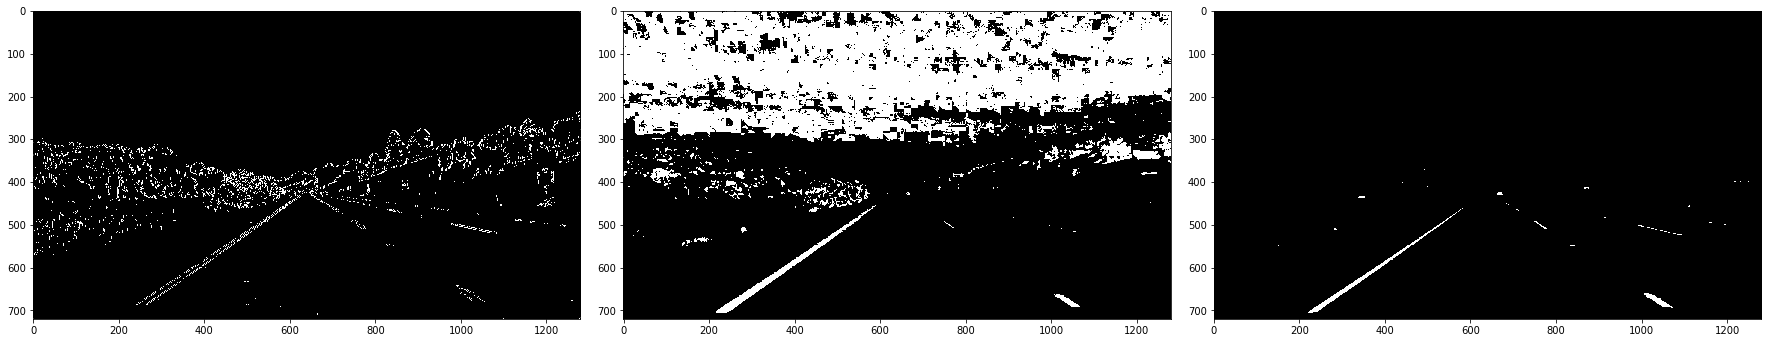
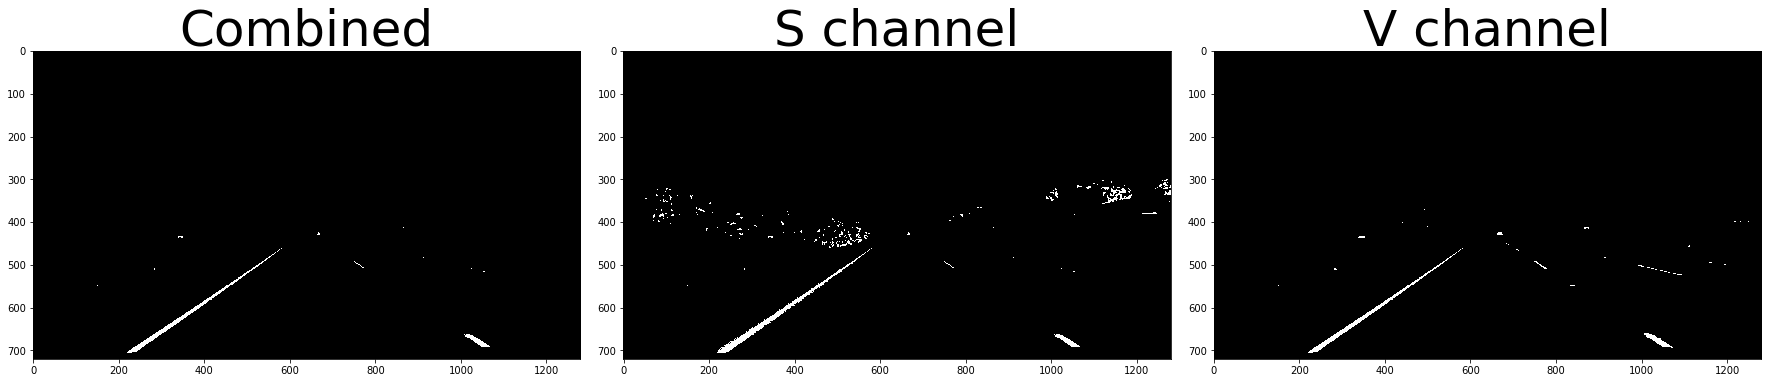
files

diff --git a/writeup_template.md b/writeup_template.md
@@ -20,7 +20,7 @@ The goals / steps of this project are the following:
 [//]: # (Image References)
 
 [image1]: ./undistort_output.png "Undistorted"
-[image2]: ./undistort_output.png "Road Transformed"
+[image2]: ./undistort_image.png "Road Transformed"
 [image3]: ./binary_combo_example.png "Binary Example"
 [image4]: ./warped_straight_lines.png "Warp Example"
 [image5]: ./examples/color_fit_lines.jpg "Fit Visual"
@@ -37,7 +37,7 @@ The goals / steps of this project are the following:
 
 #### 1. Briefly state how you computed the camera matrix and distortion coefficients. Provide an example of a distortion corrected calibration image.
 
-The code for this step is contained in the first code cell of the IPython notebook located in "./examples/example.ipynb" (or in lines # through # of the file called `some_file.py`).  
+The code for this step is contained in the second code cell of the IPython notebook located in "main.ipynb" under method called Calibrate_camera.  
 
 I start by preparing "object points", which will be the (x, y, z) coordinates of the chessboard corners in the world. Here I am assuming the chessboard is fixed on the (x, y) plane at z=0, such that the object points are the same for each calibration image.  Thus, `objp` is just a replicated array of coordinates, and `objpoints` will be appended with a copy of it every time I successfully detect all chessboard corners in a test image.  `imgpoints` will be appended with the (x, y) pixel position of each of the corners in the image plane with each successful chessboard detection.  
 
@@ -54,7 +54,8 @@ To demonstrate this step, I will describe how I apply the distortion correction 
 
 #### 2. Describe how (and identify where in your code) you used color transforms, gradients or other methods to create a thresholded binary image.  Provide an example of a binary image result.
 
-I used a combination of color and gradient thresholds to generate a binary image (thresholding steps at lines 13 through 20 in `main.ipynb`).  Here's an example of my output for this step.  (note: this is not actually from one of the test images)
+I used the S channel in HLS color space and V channel in HSV color space and created two binary image with selected thresholds. I combined tem both by an & operation so it take the best in the two images. 
+I used a combination of color thresholds to generate a binary image (thresholding steps 4th cell at lines 13 through 20 in `main.ipynb`) and helper Function at 2nd cell. Here's an example of my output for this step.  (note: this is not actually from one of the test images)
 
 ![alt text][image3]
 
@@ -62,27 +63,17 @@ I used a combination of color and gradient thresholds to generate a binary image
 
 The code for my perspective transform includes a function called `warper()`, which appears in lines 1 through 8 in the file `example.py` (output_images/examples/example.py) (or, for example, in the 3rd code cell of the IPython notebook).  The `warper()` function takes as inputs an image (`img`), as well as source (`src`) and destination (`dst`) points.  I chose the hardcode the source and destination points in the following manner:
 
-```python
-src = np.float32(
-    [[(img_size[0] / 2) - 55, img_size[1] / 2 + 100],
-    [((img_size[0] / 6) - 10), img_size[1]],
-    [(img_size[0] * 5 / 6) + 60, img_size[1]],
-    [(img_size[0] / 2 + 55), img_size[1] / 2 + 100]])
-dst = np.float32(
-    [[(img_size[0] / 4), 0],
-    [(img_size[0] / 4), img_size[1]],
-    [(img_size[0] * 3 / 4), img_size[1]],
-    [(img_size[0] * 3 / 4), 0]])
-```
 
 This resulted in the following source and destination points:
 
 | Source        | Destination   | 
 |:-------------:|:-------------:| 
-| 585, 460      | 320, 0        | 
-| 203, 720      | 320, 720      |
-| 1127, 720     | 960, 720      |
-| 695, 460      | 960, 0        |
+| 1000, 650     | 1000, 700     | 
+| 300, 650      | 200, 700      |
+| 578, 460      | 200, 0        |
+| 704, 460      | 1000, 0       |
+
+dst = np.float32([[], [], [], []])
 
 I verified that my perspective transform was working as expected by drawing the `src` and `dst` points onto a test image and its warped counterpart to verify that the lines appear parallel in the warped image.
 
@@ -125,3 +116,4 @@ we can improve :
 	1- increase the variety and combination of gradients and color filters
 	2- wrap the image with better calculated areas for a better results in curvature angle.
 	3- better organization of the pipline.
+	4- find a better way to compensate for camera moving
